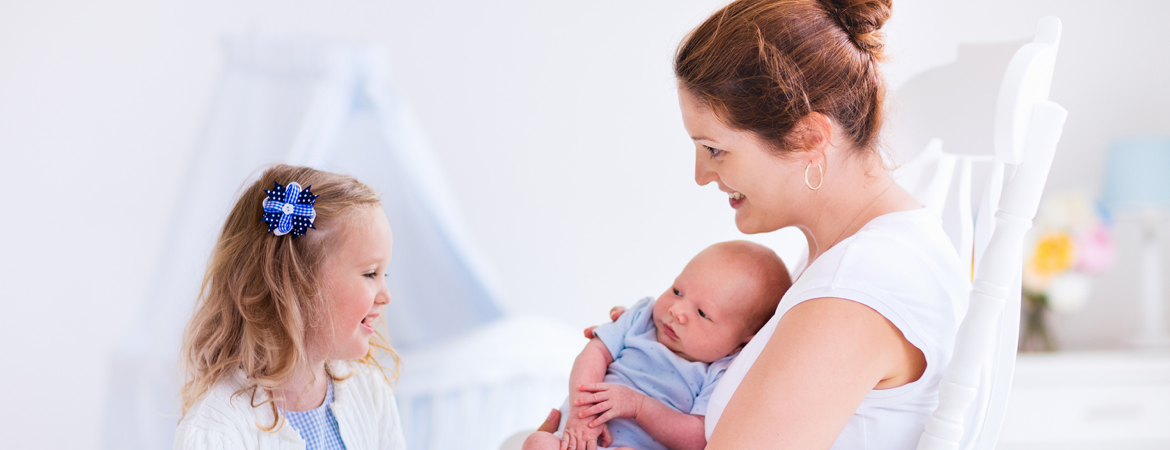
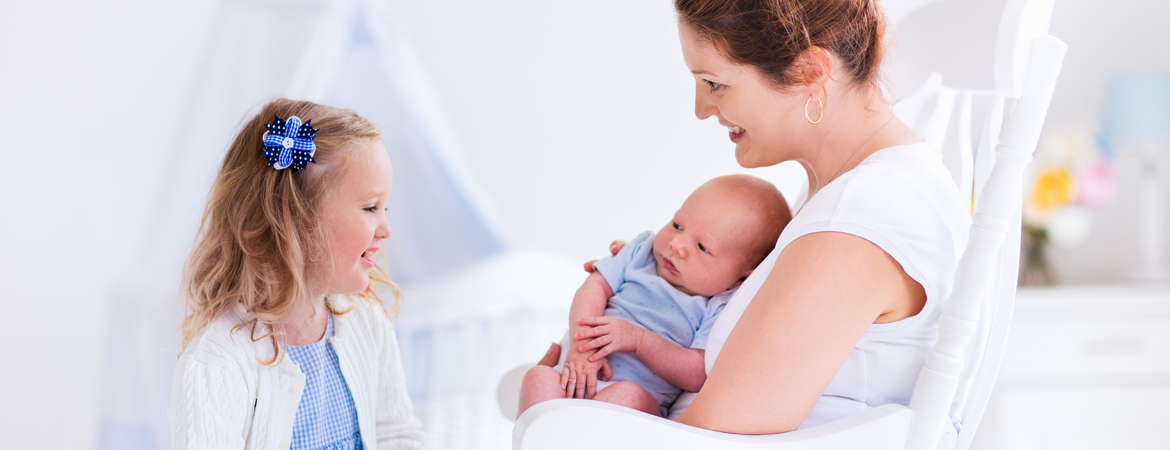
Update styling of carousel

diff --git a/app/assets/stylesheets/_carousel.scss b/app/assets/stylesheets/_carousel.scss
@@ -14,6 +14,11 @@
   height: 450px;
   background-color: #777;
 }
+
+.carousel-inner {
+  border-bottom: 1px solid $blue;
+}
+
 .carousel-inner > .item > img {
   position: absolute;
   top: 0;
@@ -25,12 +30,43 @@
   background-color: white;
 }
 
-.carousel-inner > .item > img {
+.carousel-caption, .transparent-overlay {
+  position: absolute;
+  bottom: 0;
+}
+
+.transparent-overlay {
+  width: 100%;
+  height: 140px;
+  background-color: white;
   opacity: 0.8;
+  border-top: 1px solid $offwhite;
 }
 
 .carousel-caption {
-  color: $blue;
+  color: black;
   text-shadow: none;
   font-weight: bold;
+  font-family: 'Open Sans Condensed', sans-serif;
+
+  h1 {
+    margin: 5px;
+  }
+}
+
+.carousel-control {
+  color: $dark-purple !important;
+  background-image: none !important;
+}
+
+.carousel-indicators {
+  bottom: 0px;
+
+  li {
+    background-color: $offwhite;
+
+    &.active {
+      background-color: $purple;
+    }
+  }
 }

diff --git a/app/assets/stylesheets/application.scss b/app/assets/stylesheets/application.scss
@@ -74,6 +74,10 @@ h1 {
   background-color: $purple;
   color: #fff !important;
   border-color: darken($purple, 15%);
+  font-family: 'Open Sans Condensed', sans-serif;
+  font-weight: bold;
+  font-size: 1.4em;
+  border-radius: 4px;
   &:hover {
     background-color: darken($purple, 15%);
     border-color: darken($purple, 15%);
@@ -83,7 +87,6 @@ h1 {
 #page a {
   color: $dark-blue;
   font-weight: bold;
-  text-decoration: underline;
 }
 
 .featurette img {
